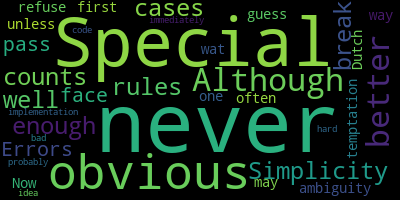
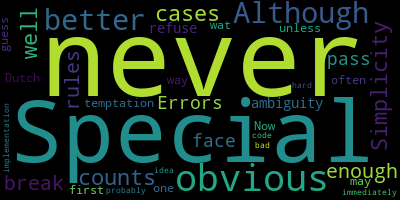
Updated wordcloud functionality (image still not loading)

diff --git a/flaskr/templates/baseNav.html b/flaskr/templates/baseNav.html
@@ -14,7 +14,6 @@
   <div class="w3-bar w3-black w3-card">
     <a class="w3-bar-item w3-button w3-padding-large w3-hide-medium w3-hide-large w3-right" href="javascript:void(0)" onclick="myFunction()" title="Toggle Navigation Menu"><i class="fa fa-bars"></i></a>
     <a href="/home" class="w3-bar-item w3-button w3-padding-large">HOME</a>
-    <!-- <a href="/text" class="w3-bar-item w3-button w3-padding-large w3-hide-small">Text Comparison</a> -->
 
     <div class="w3-dropdown-hover w3-hide-small">
         <button class="w3-padding-large w3-button" title="Text Compare">Text Compare <i class="fa fa-caret-down"></i></button>     

diff --git a/flaskr/static/home.css b/flaskr/static/home.css
@@ -2,6 +2,6 @@ h1 {align-items: center; justify-content: center; display: flex; font-weight: bo
 p {align-items: center; justify-content: center; display: flex; font-weight: bold;}
 #footer {
     position:fixed;
-    bottom:0px;width:100%;
+    bottom: 0px;width:100%;
     background: linear-gradient(89deg, purple 20%, rgb(252, 30, 233) 100%);
 }

diff --git a/flaskr/templates/reports/quickReport.html b/flaskr/templates/reports/quickReport.html
@@ -44,8 +44,8 @@ body {font-family: "Lato", sans-serif}
         </div>
 </div>
 
-<div>
-    <img src={{ image }} alt={{image}} style="width:50%;height:50%;">
+<div style="display: flex;justify-content: center;align-items: center;">
+    <img src={{image}} alt={{image}} style="width:150px;height:150px;">
 </div>
 
 

diff --git a/flaskr/templates/text/ExtensiveText.html b/flaskr/templates/text/ExtensiveText.html
@@ -11,7 +11,7 @@
 <link rel="stylesheet" href="/static/text.css">
 
 <style>
-body {font-family: "Lato", sans-serif}
+body {font-family: "Lato", sans-serif;}
 .mySlides {display: none}
 </style>
 

diff --git a/flaskr/__init__.py b/flaskr/__init__.py
@@ -197,35 +197,37 @@ def create_app(test_config=None):
             doc2 = request.files["file2"]
 
             #Code to convert files to text - Thank you copilot for the help
-            if request.files["file1"].filename.endswith('.docx'):
-                file1 = docx2txt.process(request.files["file1"])
+            if doc1.filename.endswith('.docx'):
                 filenamedoc = secure_filename(doc1.filename)
                 doc1.save(os.path.join(app.config['UPLOAD_FOLDER'], filenamedoc))
-            elif request.files["file1"].filename.endswith('.pdf'):
-                pdfReader = PyPDF2.PdfFileReader(request.files["file1"])
+                file1 = docx2txt.process(doc1)
+            elif doc1.filename.endswith('.pdf'):
+                pdfReader = PyPDF2.PdfFileReader(doc1)
                 pageObj = pdfReader.getPage(0)
-                file1 = pageObj.extractText()
                 filenamePDF = secure_filename(doc1.filename)
                 doc1.save(os.path.join(app.config['UPLOAD_FOLDER'], filenamePDF))
+                file1 = pageObj.extractText()
             else:
                 filenametxt = secure_filename(doc1.filename)
                 doc1.save(os.path.join(app.config['UPLOAD_FOLDER'], filenametxt))
-                file1 = request.files["file1"].read().decode("utf-8")
+                doc1.seek(0)
+                file1 = doc1.read().decode("utf-8")
 
-            if request.files["file2"].filename.endswith('.docx'):
-                file2 = docx2txt.process(request.files["file2"])
+            if doc2.filename.endswith('.docx'):
                 docName = secure_filename(doc2.filename)
                 doc2.save(os.path.join(app.config['UPLOAD_FOLDER'], docName))
-            elif request.files["file2"].filename.endswith('.pdf'):
-                pdfReader = PyPDF2.PdfFileReader(request.files["file2"])
+                file2 = docx2txt.process(doc2)
+            elif doc2.filename.endswith('.pdf'):
+                pdfReader = PyPDF2.PdfFileReader(doc2)
                 pageObj = pdfReader.getPage(0)
-                doc2 = pageObj.extractText()
                 pdfName = secure_filename(doc2.filename)
                 file2.save(os.path.join(app.config['UPLOAD_FOLDER'], pdfName))
+                doc2 = pageObj.extractText()
             else:
                 txtName = secure_filename(doc2.filename)
                 doc2.save(os.path.join(app.config['UPLOAD_FOLDER'], txtName))
-                file2 = request.files["file2"].read().decode("utf-8")
+                doc2.seek(0)
+                file2 = doc2.read().decode("utf-8")
             
 
         except Exception:
@@ -253,6 +255,8 @@ def create_app(test_config=None):
         highlights2 = highlight(file2, regexes)
         argsFileName = doc1.filename
         image = create_wordcloud_from_file(f'{os.getenv("UPLOAD_DIR")}/{argsFileName}')
+        print(f'File1: {file1}')
+        print(f'File2: {file1}')
 
         # Output comparison
         return render_template("reports/quickReport.html", file1=highlights1, file2=highlights2, image=image)
